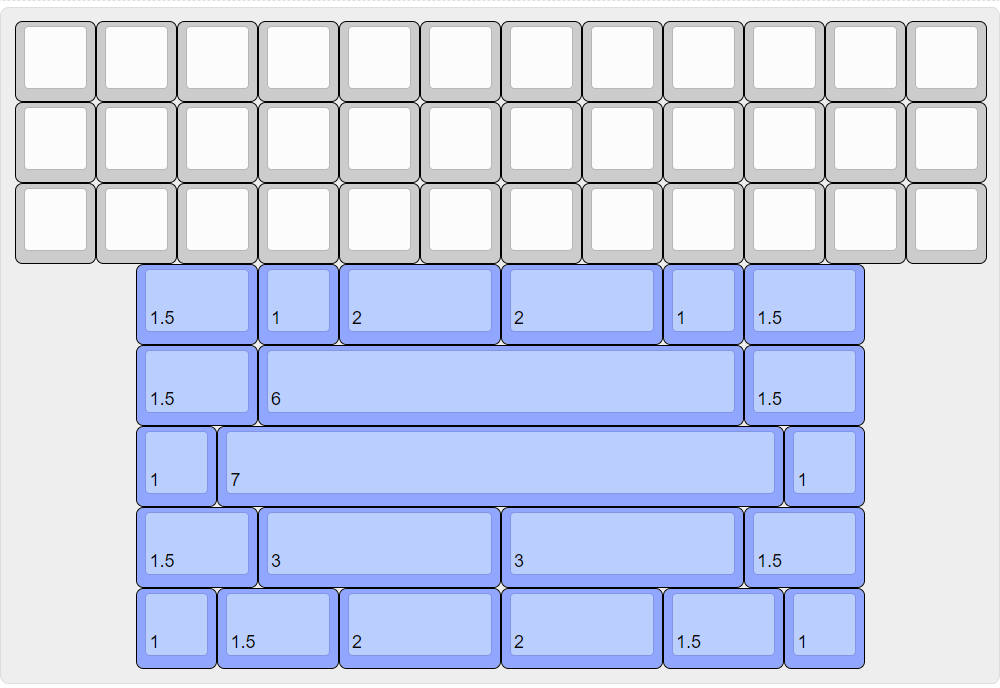
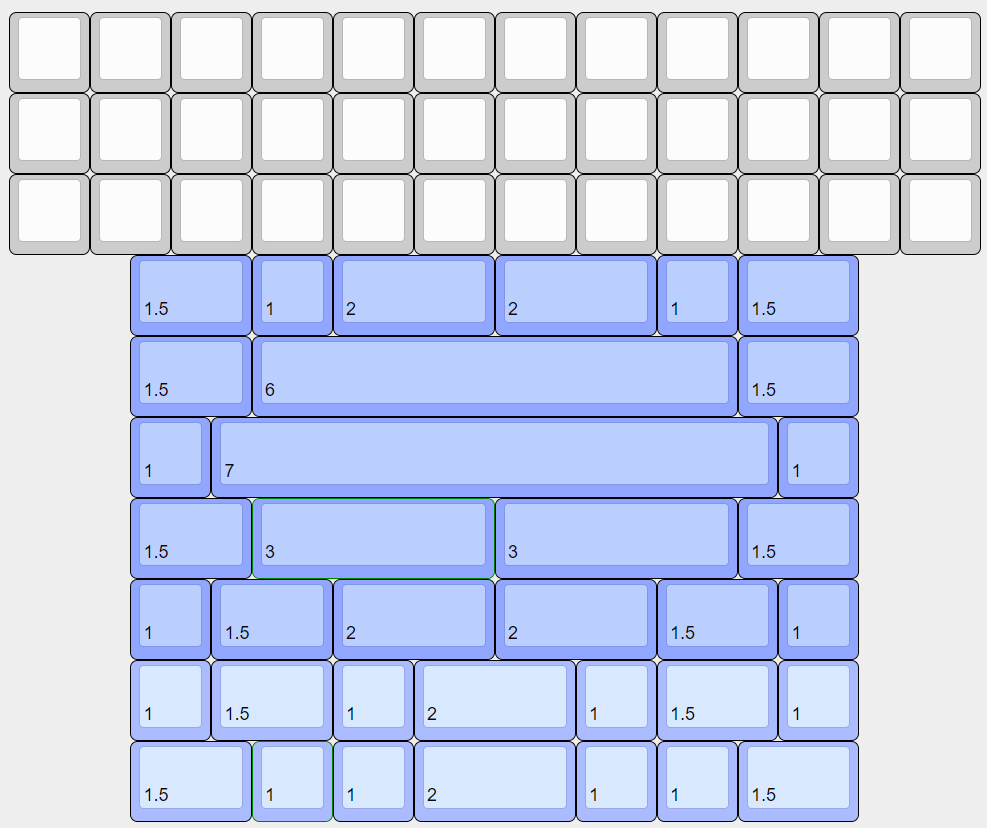
Added extended key compat info
I had a revelation

diff --git a/J42K/README.md b/J42K/README.md
@@ -3,7 +3,7 @@
 ![keyboard](https://i.imgur.com/Gh81Y9Q.jpg)
 ## The J42K is a PM based tray mount 12u HHKB ortho hotswap keyboard. 
 
-It has been designed to have many options for the bottom row. Below is a KLE showing the layout. ![Layout](J42kKle.png) 
+It has been designed to have many options for the bottom row. Below is a KLE showing the layout. The bottom two layouts are possible if there is no stab used for the center 2u keycap. ![Layout](J42kKle.png) 
 
 
 # J42Ki
